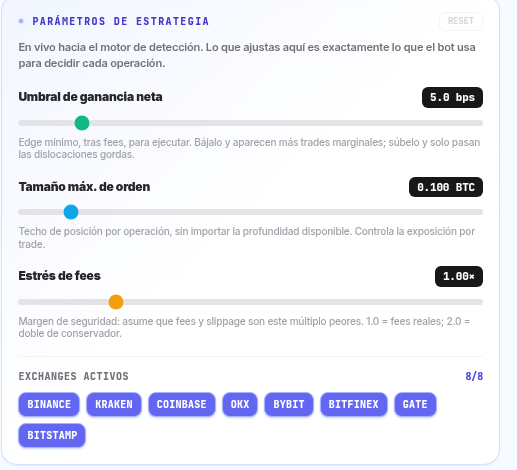
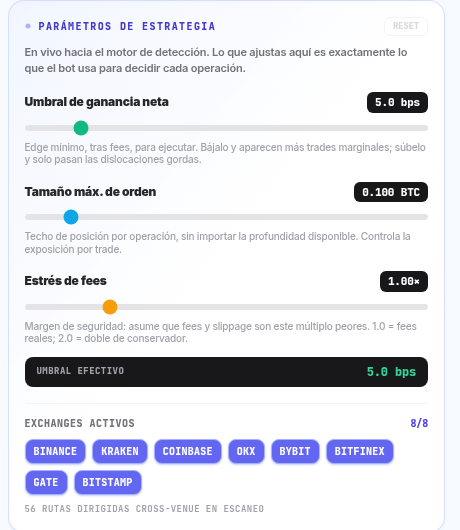
Polish ControlDeck + add live GIF and committee call notes
(a) recursos/controldeck.gif: the terminal in action with the parametrization
    panel in frame (11 frames of the live demo).
(b) ControlDeck polish: two live derived readouts — "Umbral efectivo"
    (minEdge x feeStress, exposes the knob interaction) and directed
    cross-venue routes in scan (n*(n-1)). Refreshed recursos/parametrizacion.png.
(c) docs/videollamada-notas.md: technical prep for the possible committee
    call — pitch, architecture, key decisions, live-demo script, the honest
    market-efficiency framing, and likely Q&A.

diff --git a/src/components/ControlDeck.tsx b/src/components/ControlDeck.tsx
@@ -134,6 +134,16 @@ export function ControlDeck() {
         })}
       </div>
 
+      {/* Live derived readout: the effective net-edge floor the engine is using
+          right now = min edge × fee-stress. Makes the interaction between two
+          knobs legible instead of implicit. */}
+      <div className="mt-3 flex items-center justify-between rounded-lg bg-zinc-900 px-3 py-1.5">
+        <span className="font-mono text-[9px] font-black uppercase tracking-wider text-zinc-400">Umbral efectivo</span>
+        <span className="font-mono text-[12px] font-black tabular-nums text-emerald-400">
+          {(engineParams.minNetEdgeBps * engineParams.feeStressMultiplier).toFixed(1)} bps
+        </span>
+      </div>
+
       <div className="mt-4 border-t border-zinc-100 pt-3">
         <div className="flex items-center justify-between">
           <span className="font-mono text-[10px] font-black uppercase tracking-wider text-zinc-500">Exchanges activos</span>
@@ -159,6 +169,9 @@ export function ControlDeck() {
             );
           })}
         </div>
+        <p className="mt-2 font-mono text-[9px] font-bold uppercase tracking-wider text-zinc-400">
+          {activeSet.size * (activeSet.size - 1)} rutas dirigidas cross-venue en escaneo
+        </p>
       </div>
 
       {locked && (

diff --git a/docs/videollamada-notas.md b/docs/videollamada-notas.md
@@ -1,0 +1,105 @@
+# Notas para la videollamada técnica — ArbitrAI
+
+Guion para la posible llamada con el comité. Objetivo: transmitir profundidad técnica, decisiones justificadas y honestidad. No leer palabra por palabra — son anclas.
+
+---
+
+## 1. Elevator pitch (30 s)
+
+> ArbitrAI es un bot de arbitraje de BTC sobre **8 exchanges en vivo por WebSocket**. Detecta dislocaciones cross-venue, triangulares y estadísticas, las valida **net-of-fees** con un modelo de microestructura + un comité de ML, y simula la ejecución con costos realistas (fees por venue, slippage con ley de raíz cuadrada, latencia, market impact). Todo es **parametrizable en vivo** desde la consola, con rebalanceo automático de wallets y circuit breakers. El deploy es una web pública en tiempo real.
+
+---
+
+## 2. Cómo explicar la arquitectura
+
+- **Frontend** Next.js 14 (Vercel) — landing, terminal en vivo, resultados auditables, inteligencia.
+- **Gateway** Node + WebSocket (Railway, `backend/server.ts`) — se conecta a los 8 exchanges, normaliza libros, corre el motor y hace broadcast tipado a los clientes.
+- **Kernel dual**: el mismo `ArbitrageEngine` corre en el navegador (modo Demo, `ArbitrAIKernel`) y en el gateway (modo Live). Un único protocolo `GatewayMessage`/`GatewayCommand` tipado los une → **el mismo código de detección en ambos lados**, sin divergencia.
+- **Separación de servicios**: `ArbitrageEngine` (detección), `ExecutionSimulator` (fills + wallets), `RiskManager` (circuit breaker, escenarios), `SandboxExecutionService` (órdenes firmadas TEST_ORDER), `EdgeTensor`/`MlEdgeTensor`/`NeuralEdge` (modelos).
+
+**Frase clave:** "El protocolo tipado y el kernel compartido son lo que me deja demostrar exactamente lo mismo en demo determinista y en producción con datos reales."
+
+---
+
+## 3. Decisiones técnicas clave (el "por qué")
+
+| Decisión | Por qué |
+|---|---|
+| `Decimal.js` en todo el hot path | Los errores de floating point en precios/fees se acumulan; el P&L tiene que cuadrar al centavo. |
+| Normalización USD/USDT con `source price` preservado | Comparar Coinbase (USD) vs Binance (USDT) sin el basis USDT/USD inventa spreads falsos. |
+| Slippage con ley `√(participación)` | El impacto de mercado es cóncavo, no lineal (Donier-Bonart lo confirma en BTC). Un modelo lineal subestima el costo de consumir profundidad. |
+| Comité de dos familias (árboles + red neuronal) | Los árboles parten fronteras alineadas a ejes; la red las curva. Discrepan de forma útil → el promedio calibra mejor. |
+| Calibración Platt/isotónica con validación walk-forward | Kelly consume la salida como probabilidad; sin calibrar, sobre-apuesta. Brier 0.060 → 0.023. |
+| Parámetros como `EngineParams` en un solo lugar (`types.ts`) | Una sola fuente de verdad compartida por el protocolo y el engine; imposible que UI y motor se desincronicen. |
+
+---
+
+## 4. La parametrización en vivo (EL diferenciador) — demostrar en pantalla
+
+Abrir `/terminal` → sidebar derecho → **Parámetros de estrategia**.
+
+1. Mover **Umbral de ganancia neta** hacia abajo → aparecen más señales ejecutables; hacia arriba → solo pasan las gordas. *"El slider entra directo a `detectCrossExchange`; el número que ves es el que el motor usa para decidir."*
+2. **Estrés de fees** a 2× → el "Umbral efectivo" (readout en vivo) se duplica → el bot se vuelve más conservador sin tocar código.
+3. **Tamaño máx. de orden** → cap de exposición por trade.
+4. Apagar un exchange → las **rutas dirigidas en escaneo** bajan (n·(n−1)); ese venue se sigue viendo pero ya no entra a ninguna ruta.
+
+**Cableado (si preguntan):** ControlDeck → acción del store (update optimista) → `engine.setParams()` en el kernel del navegador **y/o** comando `SET_ENGINE_PARAMS` sobre el WebSocket → aplicado con clamps dentro del engine → el gateway hace broadcast de los params efectivos y **sincroniza a cada cliente nuevo al conectar**.
+
+---
+
+## 5. Robustez ante escenarios adversos — demostrar
+
+Botón **Laboratorio de estrés** (solo en Demo, nunca alteramos precios live):
+- **Crash de volatilidad ×3**, **drenaje de liquidez**, **latencia elevada**.
+- Mostrar: el motor sube el umbral por volatilidad, el latency kill switch frena si el avg > 3000 ms, el circuit breaker corta tras 3 pérdidas materiales.
+- **Aislamiento de fallos**: `drainQueue()` envuelve cada trade en su propio `try/catch`; una pierna que revienta rechaza esa señal sin congelar la cola. Error boundary de React evita pantalla blanca.
+- Fills parciales + `preflight` real de ambas piernas antes de admitir a la cola.
+
+---
+
+## 6. Wallets y rebalanceo automático — demostrar
+
+Sidebar → **Rebalanceo automático**. Cuando un venue drifta bajo su banda operativa (±18% del target), el motor jala el excedente del venue más holgado del mismo activo, paga el **fee de retiro real** (BTC on-chain / red USDT) y lo registra en un log auditable. Idempotente y acotado; nunca vacía un donante bajo su propio target.
+
+---
+
+## 7. El modelo ML / comité (si profundizan)
+
+- **AET (ArbitrAI Edge Tensor)**: modelo de supervivencia de microestructura, calibrado por ruta.
+- **MlEdgeTensor**: ensemble estilo XGBoost (stumps boosteados, 19 features del libro + 5 temporales), entrenamiento online desde outcomes reales y shadow. Actúa como **segunda opinión**: puede vetar una señal que AET admitió, nunca resucita una que rechazó.
+- **NeuralEdge**: MLP `24→32→16→1` en TypeScript puro (backprop + Adam a mano), corre igual en browser y gateway. Ruta GPU (PyTorch/CUDA en Jetson) lista.
+- **Shadow Learning**: aprende también de las señales que descartó (contrafactual).
+
+---
+
+## 8. La postura honesta (defenderla como FORTALEZA)
+
+Si preguntan "¿genera dinero real?":
+
+> Con fees retail de taker (≥20 bps ida y vuelta) el arbitraje cross-venue de BTC es **estructuralmente no rentable** — lo cuantificamos: 2.5M dislocaciones reales, edge bruto mediano ~1.4 bps, muy por debajo del break-even. El mercado es eficiente. Donde SÍ aparece edge net-positivo es en las **ventanas de volatilidad de ~1 segundo** cuando los venues rápidos repricean antes que los lentos — y esas las capturamos con verificación de frescura (ambos libros <1.5 s). Están documentadas en `/resultados` con +20.53 bps neto reales.
+
+**El punto fuerte:** *"Preferí construir un sistema que sabe medir su propio edge y decir la verdad, en vez de uno que siempre dice 'ejecutar' y esconde que pierde con fees. La parametrización, la calibración y los estudios de eficiencia son la prueba de que el bot entiende el problema, no solo que hace ruido."*
+
+Estudios en `/resultados`: umbral de fees, complemento maker-side, reversión en tape real, punto de operación con IC de Wilson.
+
+---
+
+## 9. Preguntas probables + respuestas
+
+- **"¿Los datos son reales?"** → Sí: 8 feeds WebSocket reales, libros normalizados, evidencia en `/resultados` sobre tapes grabados reales. La ejecución es **paper/simulada** (el deploy público no manda órdenes con dinero real, por diseño de seguridad); `TEST_ORDER` prueba firma y payload contra testnets.
+- **"¿Por qué no órdenes reales?"** → Operar capital real exige rollout gradual, custody controls, hedge policy y monitoreo — fuera del alcance de un hackathon, y sería irresponsable simularlo como si fuera real.
+- **"¿Cómo escalarías?"** → El gateway ya es stateless por cliente; sharding por símbolo/venue, persistencia del journal en volumen, y el modelo se recalibra con schema versionado para no mezclar observaciones incompatibles.
+- **"¿Latencia real?"** → El feed es event-driven; medimos y mostramos heartbeat y latencia por venue. El costo de latencia entra al modelo de ejecución (no solo cosmético).
+- **"¿Overfitting del ML?"** → Validación walk-forward (`--split temporal`), evaluación en tape ajeno (`--evalTape`), IC de Wilson, y solo se promueve un modelo si supera al actual out-of-sample. Documentamos incluso un caso donde un op-point NO generalizó (bandera de credibilidad, no lo escondemos).
+
+---
+
+## 10. Demo en vivo — orden sugerido (3–4 min)
+
+1. **Landing** (10 s): pipeline de decisión, 8 mercados.
+2. **/terminal** (90 s): señales streaming, waterfall de costos, P&L. Mover **2 sliders** del ControlDeck y mostrar el efecto inmediato.
+3. **Laboratorio de estrés** (40 s): disparar crash → mostrar reacción del motor + circuit breaker.
+4. **Rebalanceo** (20 s): señalar el log de transferencias automáticas.
+5. **/resultados** (40 s): capturas reales +20.53 bps + estudios de eficiencia → cerrar con la postura honesta.
+
+**Cierre:** *"Construí algo que entiende el mercado lo suficiente para ser honesto sobre él, y que cualquiera puede reparametrizar en vivo para ver cómo cambia la decisión. Eso es lo que quería demostrar."*

diff --git a/README.md b/README.md
@@ -148,6 +148,10 @@ La estrategia no está hardcodeada: el operador la sintoniza en tiempo real desd
   <img alt="ControlDeck: parametrización en vivo" src="recursos/parametrizacion.png" width="440" />
 </p>
 
+<p align="center">
+  <img alt="Terminal con parametrización en acción" src="recursos/controldeck.gif" width="820" />
+</p>
+
 | Parámetro | Rango | Qué controla | Dónde impacta |
 |---|---|---|---|
 | **Umbral de ganancia neta** | `0–40 bps` | Edge mínimo, tras fees, para que una ruta sea ejecutable. Bájalo y afloran trades marginales; súbelo y solo pasan las dislocaciones gordas | Gatea las tres ramas (taker / maker / híbrida) en `detectCrossExchange` |